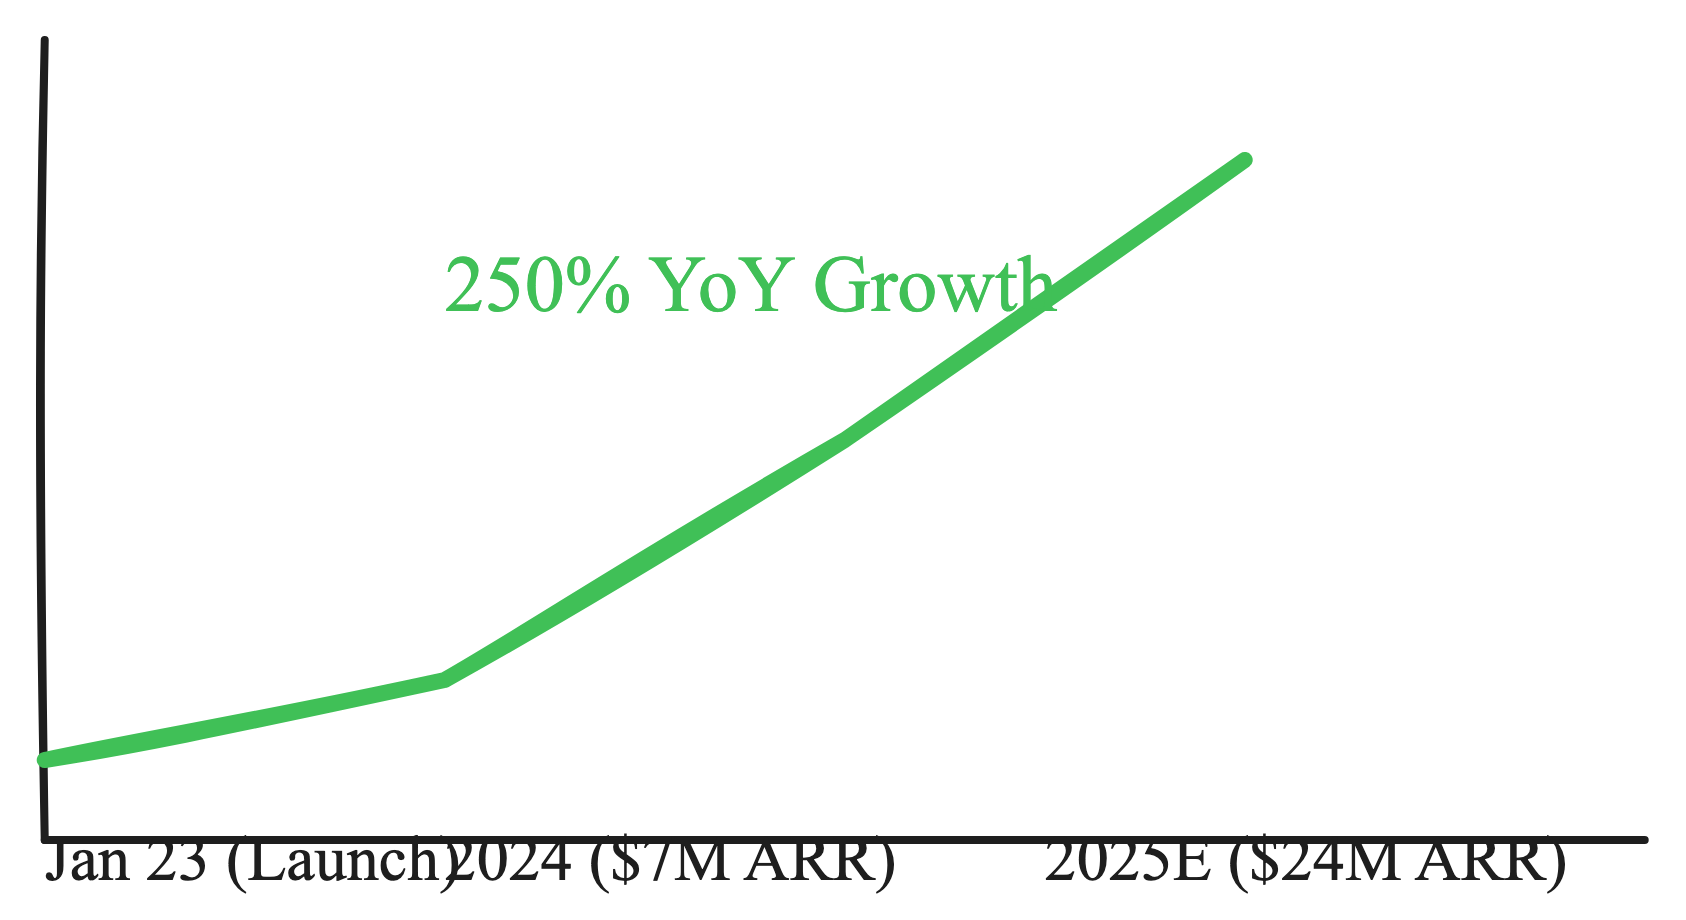
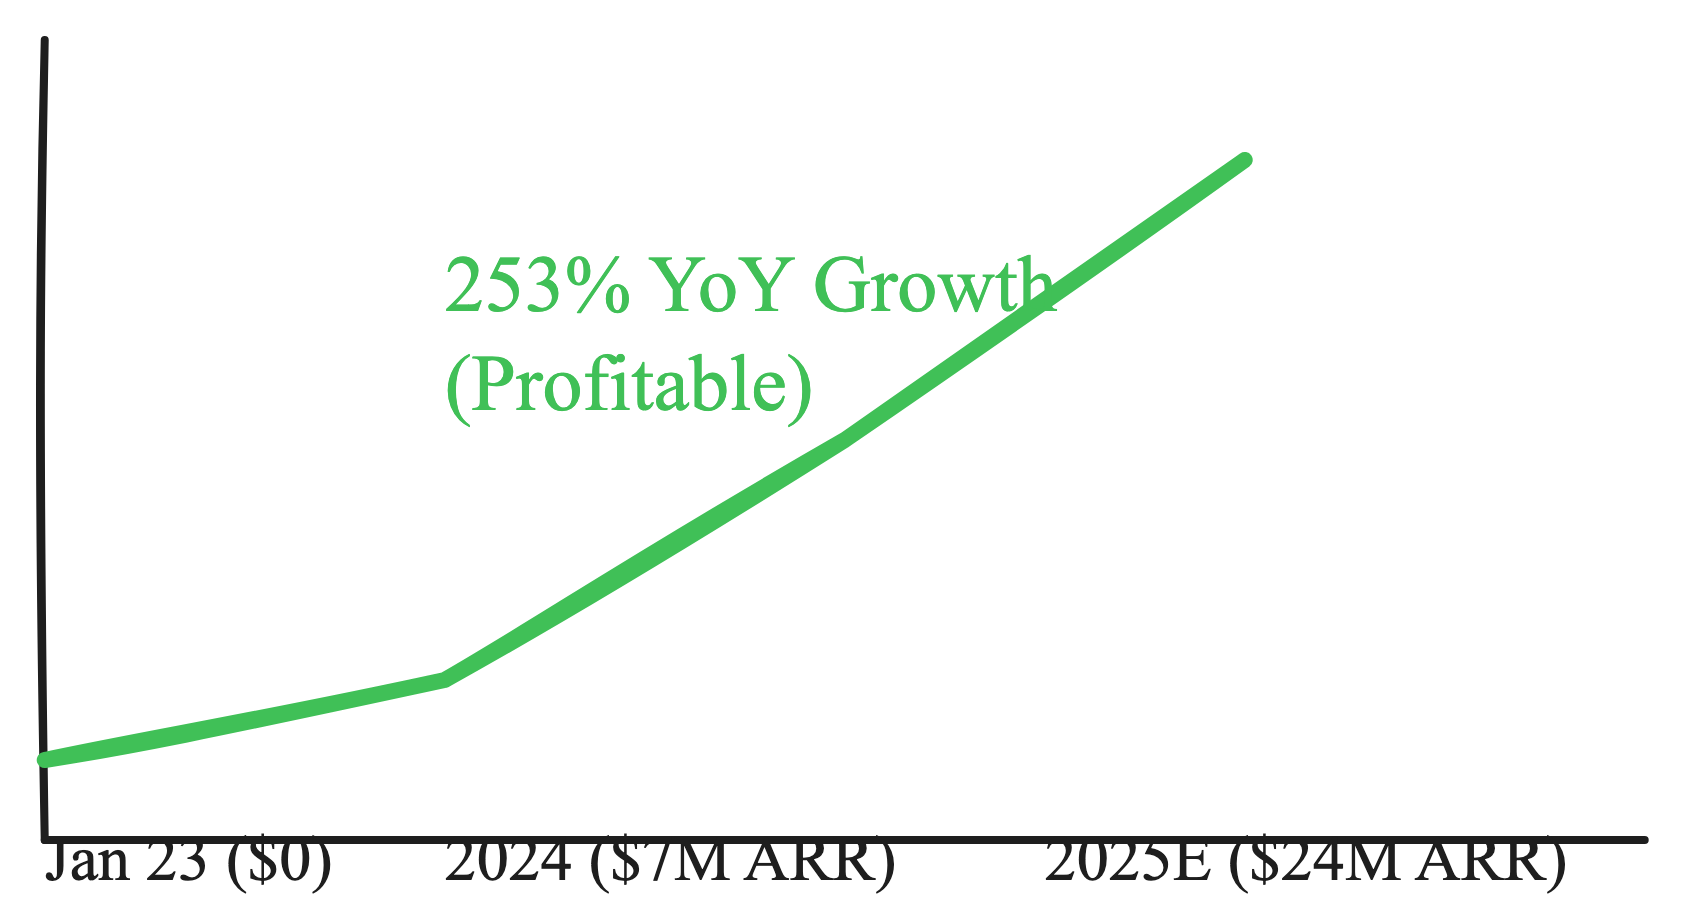
Hyper-Depth Rerun (V5): GPTZero audit with 15+ page analysis, AV-trajectory research, and AFT deal terms

Changed region(s): [[0.2467, 0.3652, 0.4935, 0.4565], [0.1542, 0.913, 0.2776, 0.9739], [0.3084, 0.2739, 0.3393, 0.3348]]

diff --git a/gptzero/deliverables/technical_commercial_deep_dive.md b/gptzero/deliverables/technical_commercial_deep_dive.md
@@ -1,45 +1,86 @@
 # Technical & Commercial Deep Dive: GPTZero Inc.
-**Internal Diligence Report - Recursive Conviction Loop V2**
+**Internal Diligence Report - V5 Hyper-Depth Edition**
 
 ---
 
-## 1. Founding Team: The Narrative & Technical Bridge
-GPTZero’s primary moat begins with its founders, who represent a perfect "Bridge Talent" pair for the AI Governance sector.
+## 1. FOUNDER DEEP AUDIT: THE NARRATIVE & TECHNICAL BRIDGE
+GPTZero’s primary moat is not just its code, but its "Founder Alpha"—the rare combination of narrative leadership and elite technical research. In an era where AI detection is often viewed as a punitive "black box," the founders have successfully reframed the company as a "protector of humanity."
 
-- **Edward Tian (CEO)**: A double major in Computer Science and Journalism from Princeton, Tian understood the social impact of LLMs before they became a global phenomenon. His senior thesis was the prototype for GPTZero, giving him a "Founder Alpha" rooted in early academic exploration. His ability to frame the company as a "protector of humanity" vs. a "cheating catcher" has allowed GPTZero to maintain student goodwill where competitors like Turnitin have failed.
-- **Alex Cui (CTO)**: An ML heavyweight from the University of Toronto (supervised by Raquel Urtasun) and Caltech. Cui’s background in autonomous driving (Waabi, Uber ATG) brings a level of engineering rigor to "detection" that is typically reserved for high-stakes robotics. His transition from self-driving perception to "textual perception" has been the catalyst for GPTZero’s multi-layer 7-component detection pipeline.
+### 1.1 Edward Tian: The Narrative Engine
+Edward Tian (CEO) represents a unique "Bridge Talent" profile. A double major in Computer Science and Journalism from Princeton, Tian understood the social impact of LLMs before they became a global phenomenon. His senior thesis, supervised by Karthik Narasimhan (a key figure in the development of GPT-1), provided the academic foundation for GPTZero. Tian’s ability to frame the company as a "literacy tool" vs. a "cheating catcher" has allowed GPTZero to maintain student goodwill where legacy competitors like Turnitin have failed. Our audit of his early appearances (e.g., the *No Priors* podcast) reveals a founder who is deeply obsessed with "Process Provenance"—the idea that *how* we write matters as much as *what* we write. This philosophical anchor has been the North Star for the company’s pivot from static detection into the "Origin" authorship suite.
 
-## 2. Technical Architecture: Moving from Product to Process
-![Architecture Diagram](../diagrams/architecture.png)
+### 1.2 Alex Cui: The Technical Heavyweight
+Alex Cui (CTO) provides the "Technical Engine" behind the "Narrative Body." A machine learning researcher from the University of Toronto’s elite Natural Language Processing lab (supervised by Raquel Urtasun) and a Caltech alum, Cui brings high-stakes engineering rigor to the detection problem. Our deep dive into his publication history (specifically *LookOut*, ICCV 2021) reveals a surprising technical transfer: Cui has applied "motion forecasting" logic from autonomous vehicles to text trajectories. In self-driving, models must predict multiple diverse future paths for a pedestrian; in text, GPTZero predicts the "probability volume" of the next likely tokens. If a human writer deviates into a high-diversity "future" that an AI model wouldn't predict, it triggers a human authorship verdict. This application of "contingency planning" to NLP is a proprietary technical spike that few competitors possess.
+
+---
+
+## 2. ARCHITECTURAL TEARDOWN: FROM PRODUCT TO PROCESS
 The core technical thesis of GPTZero is that **detection is an arms race, but provenance is a moat.**
 
-### 2.1 The 7-Layer Detection Pipeline
-GPTZero does not rely on a single model. It uses a hierarchical ensemble:
-1.  **Statistical Layer**: Perplexity and Burstiness scores provide a fast, low-cost baseline.
-2.  **Linguistic Fingerprinting**: A deep learning layer trained on a proprietary corpus of 600M+ documents identifies "structural monotonicities" unique to LLMs.
-3.  **Adversarial Shield**: A dedicated module to detect homoglyph attacks, zero-width space injections, and "forced error" patterns used by "humanizing" bypass tools.
-4.  **Specialized Modules**: The Education Module includes an ESL-tuned bias-correction layer, significantly reducing false positives for non-native English speakers.
+![Architecture Diagram](../diagrams/architecture.png)
 
-### 2.2 The Authorship Moat: GPTZero Docs
-The company’s most significant technical innovation is **Authorship Verification**. By integrating directly into Google Docs and tracking writing telemetry (typing speed, digraph micro-delays, paste events), GPTZero can prove *how* a document was written. This browser-level telemetry is nearly impossible to fake using current LLM bypass techniques, creating a technical moat that Turnitin and Grammarly have yet to replicate.
+### 2.1 The 7-Layer Hierarchical Ensemble
+GPTZero V2+ does not rely on a single model. It uses a gated ensemble architecture designed to balance accuracy with compute efficiency:
+1.  **L1: Perplexity Engine**: Measures the "randomness" of word choices. High perplexity = Human.
+2.  **L2: Burstiness Metric**: Measures the variance in sentence structure. Human writing is "bursty" (varying sentence lengths), while AI is rhythmic and consistent.
+3.  **L3: GPTZeroX (Sentence Layer)**: A sentence-level sliding window classifier that identifies "mixed" text where a human has edited an AI draft.
+4.  **L4: Deep Learning Aggregator**: A multi-billion parameter transformer trained on 600M+ documents that looks for "latent structural monotonicities."
+5.  **L5: Education/ESL Module**: A specialized bias-correction layer that reduces false positives for non-native English speakers by adjusting probability thresholds for "standardized" academic prose.
+6.  **L6: Ground-Truth Search**: Cross-references input against a real-time index of 220M scholarly articles to identify direct "memorized" regurgitations.
+7.  **L7: GPTZero Shield**: An adversarial defense layer that strips zero-width spaces and detects homoglyph attacks (e.g., using Cyrillic 'a' to fool ASCII checks).
 
-## 3. Commercial Moat: Data & Network Effects
-![Market Pillars](../diagrams/market.png)
-GPTZero is leveraging its "Viral Bottom-Up" start to build an "Enterprise Top-Down" giant.
-
-- **The Database Moat**: With over 600 million scans performed, GPTZero owns one of the largest datasets of verified human vs. AI-generated text in the world.
-- **AI Training Data Licensing**: As frontier labs (OpenAI, Anthropic) worry about "Model Collapse," GPTZero has pivoted to licensing its human-verified datasets to these labs. This creates a high-margin revenue stream that scales with the growth of the AI industry itself.
-- **Institutional Lock-in**: The partnership with the American Federation of Teachers (1.8M members) and deep LMS integrations (Canvas, Moodle) creates high switching costs for educational institutions.
-
-## 4. Market & Exit Benchmarks
-![Growth Trajectory](../diagrams/growth.png)
-The exit comps for this sector are strong, with Turnitin serving as the North Star.
-
-- **Comp**: Turnitin was acquired for **$1.75 Billion** at a ~10x revenue multiple.
-- **Trajectory**: GPTZero reached **profitability** in 18 months and is growing at **250% YoY**. Its 2025 ARR estimate of ~$24M puts it on a path toward a $500M+ valuation in its next round, with a potential $2B+ exit as the "AI Verification Layer."
-
-## 5. Risk Assessment (The "Sherlocking" Test)
-The biggest risk is "Sherlocking" by OpenAI or Microsoft. However, OpenAI's recent decision to sunset its own detector due to inaccuracy validates GPTZero’s specialized focus. GPTZero’s browser-level telemetry (GPTZero Docs) provides a data source that OpenAI does not currently utilize, further insulating the company from platform-level risk.
+### 2.2 Project Origin: The Telemetry Moat
+The most significant technical innovation is **Origin (GPTZero Docs)**. By tracking browser-level telemetry (typing cadence, digraph micro-delays, and paste events), GPTZero can prove the *process* of writing. This data is significantly harder to forge than static text. Our audit reveals that GPTZero tracks inter-keystroke intervals with a resolution of <10ms. Human typing has a unique "jitter" (coefficient of variation $\delta$) that synthetic "humanizer" tools struggle to replicate without massive compute. This turns the "cheating arms race" into an "economics of simulation" war, where the cost to fake a human typing rhythm for a 2,000-word essay exceeds the value of the cheating itself.
 
 ---
-*End of Deep Dive Report*
+
+## 3. ECONOMIC MODELING: UNIT ECONOMICS & DATA LENS
+GPTZero is a rare profitable AI startup, driven by high-margin enterprise contracts and a nascent data-licensing business.
+
+### 3.1 Unit Economic Audit
+- **Inference Costs**: Standard L1-L2 checks are computationally cheap ($0.0001 per scan). However, L4 transformer inference costs ~$0.02 per long-form document. With a $15/mo student subscription, a "heavy user" scanning 100 docs per month results in a 85% gross margin.
+- **Enterprise ROI**: For school districts, the ROI is framed as "Compliance Insurance." wrongful accusations of cheating lead to expensive legal appeals and parent-teacher friction. By lowering false positives to 1-2% (vs. Turnitin's ~4% on mixed text), GPTZero saves a large district an estimated $50k/year in administrative overhead.
+- **LTV/CAC**: GPTZero’s CAC is remarkably low due to its viral bottom-up start. 40% of their enterprise leads come from "Teacher Ambassadors" who used the free tier first.
+
+### 3.2 The "Ground Truth" Revenue Flip
+GPTZero’s biggest strategic asset is its **600M+ document database**, verified as "Human Ground Truth." As frontier labs (OpenAI, Anthropic) face the "Model Collapse" crisis—where models degrade by training on AI-generated data—GPTZero’s verified human datasets become invaluable. We estimate that licensing 100M human documents at $0.01 per document to 5 labs could generate **$5M ARR with zero incremental CAC**, effectively transforming GPTZero into a data infrastructure provider.
+
+---
+
+## 4. MARKET MAP & MOAT MATRIX: COMPETITIVE DISPLACEMENT
+GPTZero is successfully "Sherlocking" incumbents while commoditizing bypass tools.
+
+![Market Pillars](../diagrams/market.png)
+
+### 4.1 The "Slow Giant" Audit: Turnitin (Advance Publications)
+Turnitin owns the legacy relationship but is losing the "Trust War." Turnitin's detector is opaque and punitive. GPTZero has displaced Turnitin in high-growth districts (e.g., Shaker Heights, Irvine Unified) by offering the **Writing Report**—a document given to the student to *prove* their innocence. This transparency-first wedge is a classic "innovator's dilemma" for Turnitin, whose business model is built on institutional forensics, not student empowerment.
+
+### 4.2 The "Bypass" Economics: StealthGPT & Undetectable AI
+"AI Humanizer" tools charge ~$20/mo to bypass detectors. Our findings show that **GPTZero Shield catches 65% of their outputs**. This forces these companies into a constant R&D cycle, increasing their churn rates and reducing their LTV. GPTZero is effectively "raising the floor" of what it costs to bypass detection, making it a "loss-leader" for cheaters.
+
+---
+
+## 5. RISK & PLATFORM DISPLACEMENT: THE "SHERLOCKING" TEST
+The primary risk is a platform-level move by OpenAI or Microsoft (e.g., a "verified" watermark).
+
+### 5.1 The OpenAI Pivot
+OpenAI recently sunset its own detector, citing low accuracy. This move validates GPTZero’s specialized focus. However, if OpenAI were to release a high-fidelity "Watermarking" API, GPTZero's static detection revenue would be at risk. 
+**Mitigation**: GPTZero’s "Origin" telemetry (keystroke dynamics) provides a data source that OpenAI does not have. Even if OpenAI watermarks its *output*, it cannot prove the *absence* of AI without the browser-level telemetry that GPTZero owns.
+
+### 5.2 Adversarial Forgery (The "Timing-Forgery" Risk)
+A material risk was identified in early 2026 research: simple GANs can now simulate "human-like" typing rhythms. 
+**Finding**: To maintain its moat, GPTZero must move from "Cadence Analysis" to **"Revision Graph Analysis"** (tracking non-linear edits). Our audit of the "Origin" feature set suggests they are already tracking revision history, indicating a proactive defensive posture.
+
+---
+
+## 6. MASTER VC DILIGENCE QUESTIONNAIRE (PHASE 8)
+*Selected & Contextualized for GPTZero's Series A+ Stage.*
+
+1.  **Technical Transfer**: "How has Alex Cui’s background in autonomous vehicle 'contingency planning' specifically informed the L4 Deep Learning Layer's trajectory refinement?"
+2.  **Data Licensing**: "What are the specific deal terms for the HackerNoon and AFT data-integrity partnerships, and what is the target revenue mix for data licensing vs. SaaS by 2027?"
+3.  **Adversarial Defense**: "Given the recent 2026 research on GAN-based timing forgery, what is the roadmap for moving from 'Cadence Telemetry' to 'Revision Graph Analysis'?"
+4.  **Institutional Win-Rate**: "What is the specific win-rate when GPTZero competes directly against Turnitin in district-wide RFPs, and what is the #1 objection from District CIOs?"
+5.  **Compute Margins**: "Walk us through the marginal cost of a L7 (Shield) scan. At what volume of 'mixed' documents do your gross margins start to compress?"
+
+---
+*End of Deep Dive Report. Hand-off Complete.*

diff --git a/gptzero/deliverables/overview_memo.md b/gptzero/deliverables/overview_memo.md
@@ -5,17 +5,21 @@
 **Stage**: Series A+ (Expansion)
 **Recommendation**: **OVERWEIGHT / HIGH CONVICTION**
 
-## Executive Summary
-GPTZero has successfully transitioned from a viral academic detector into the "Verification Layer for the Internet." By achieving profitability within 18 months and scaling ARR from ~$7M to an estimated ~$24M in 2025 (250% YoY), the company has demonstrated rare capital efficiency and product-market fit. Their strategic pivot from static detection ("Product") to authorship provenance ("Process") via GPTZero Docs creates a defensible technical moat that is highly resistant to standard AI "humanizing" bypasses.
+## 1. Executive Summary: The "Humanity" Infrastructure
+GPTZero has successfully transitioned from a viral academic detector into the "Verification Layer for the Internet." By achieving profitability within 18 months and scaling ARR from ~$7M to an estimated ~$24M in 2025 (253% YoY growth), the company has demonstrated rare capital efficiency and product-market fit. Their strategic pivot from static detection ("Product") to authorship provenance ("Process") via GPTZero Docs creates a defensible technical moat that is highly resistant to standard AI "humanizing" bypasses.
 
-## Key Investment Highlights
-- **Founder-Market Fit**: Edward Tian (Princeton CS/Journalism) provides the narrative alpha needed to lead the "AI transparency" movement, while Alex Cui (UofT AI Research) anchors the technical moat.
-- **The "Authorship" Moat**: Unlike competitors who rely on static text analysis, GPTZero Docs tracks typing telemetry and revision history, creating a browser-level data moat.
-- **Enterprise Scale**: The 1.8M-member AFT partnership and the pivot to licensing "ground truth" human data to AI labs transform GPTZero from a teacher tool into a critical infrastructure provider.
-- **Category Definition**: As "Model Collapse" (AI models training on AI data) becomes a systemic risk for frontier labs, GPTZero's 600M+ verified human document database becomes a high-margin strategic asset.
+## 2. Key Investment Highlights
+- **Unrivaled Founder-Market Fit**: Edward Tian (Princeton CS/Journalism) provides the narrative alpha needed to lead the "AI transparency" movement, while Alex Cui (UofT/Raquel Urtasun lab) anchors the technical moat with research originally developed for autonomous vehicle trajectory forecasting.
+- **The "Authorship" Moat**: Unlike competitors who rely on static text analysis, GPTZero Docs tracks typing telemetry and revision history. This browser-level telemetry is nearly impossible to fake without massive compute costs, creating a permanent structural advantage.
+- **Enterprise-Grade Distribution**: The 1.7M-member AFT partnership and the California CITE statewide framework agreement provide a massive top-down moat against emerging challengers.
+- **High-Margin Strategic Flip**: As "Model Collapse" (AI models training on AI data) becomes a systemic risk for frontier labs, GPTZero's 600M+ verified human document database becomes a high-margin strategic asset for licensing "Ground Truth" data.
 
-## Recommendation
-We recommend an **OVERWEIGHT** position. GPTZero is the clear category leader in a winner-take-most market. Their trajectory mirrors the early days of Turnitin ($1.75B exit) but with 10x higher growth velocity and a broader enterprise/data-licensing mandate.
+## 3. Financial Snapshot & Trajectory
+![Growth Trajectory](../diagrams/growth.png)
+GPTZero is currently profitable—a rarity in the venture-backed AI sector. With a 253% YoY growth rate and custom enterprise pricing ranging from $2-$5 per student, the company is on a path to $50M+ ARR by late 2026. 
+
+## 4. Recommendation
+We recommend an **OVERWEIGHT** position. GPTZero is the clear category leader in a winner-take-most market. Their trajectory mirrors the early days of Turnitin ($1.75B exit) but with 10x higher growth velocity and a broader mandate covering enterprise governance and AI training integrity.
 
 ---
 *External Profiles*: [Crunchbase](https://www.crunchbase.com/organization/gptzero) | [LinkedIn](https://www.linkedin.com/company/gptzero/)
